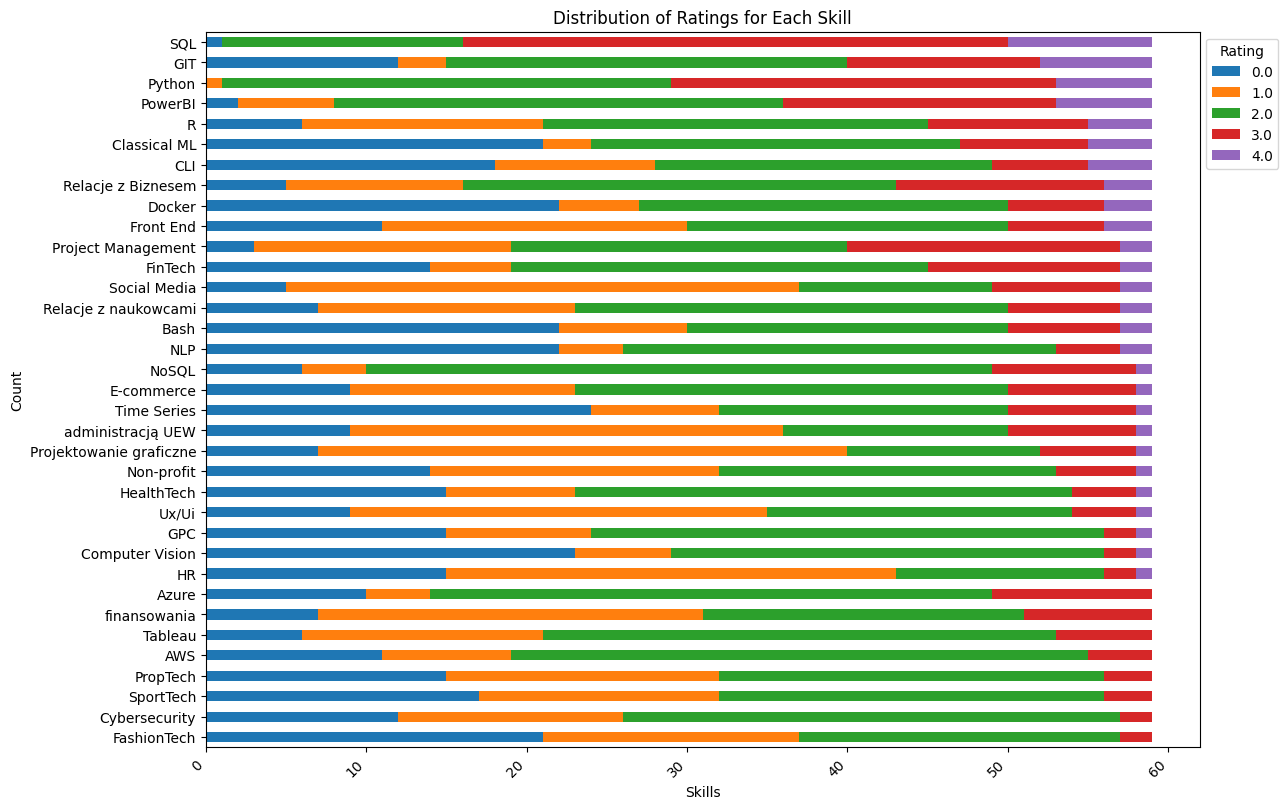
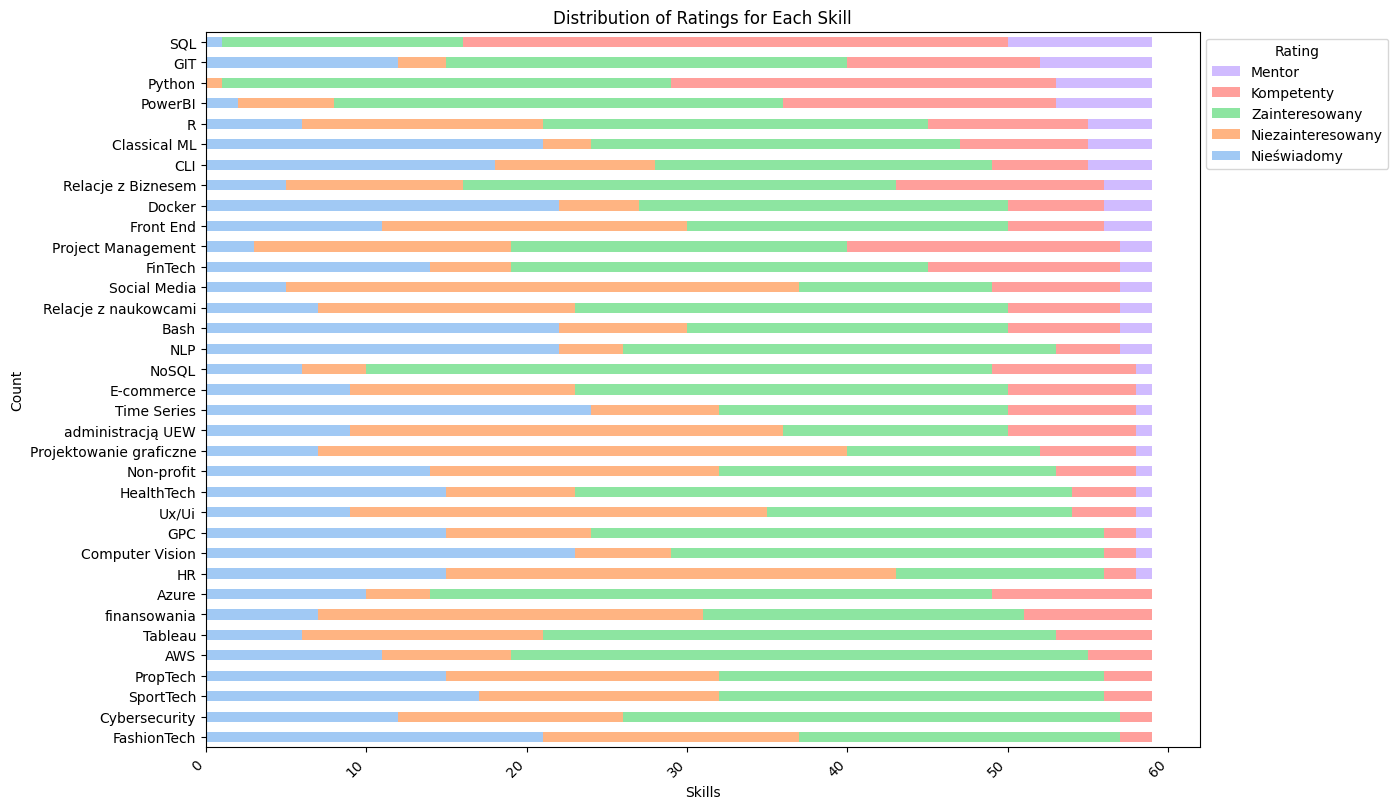
Changed color scheme and legend in graph

diff --git a/notebooks/02_data_processing.py b/notebooks/02_data_processing.py
@@ -2,31 +2,37 @@ import pandas as pd
 import os
 import numpy as np
 
+#Finding file
 os.chdir(r'data')
-file_name = r'01_Raw\01_SelectedFeatures.csv'
-
+file_name = r'02_Interim\01_SelectedFeatures.csv'
 df = pd.read_csv(file_name)
-columns_to_drop = ['Masz jakiś pomysł na projekt data? Napisz nam o tym. Jeżeli to nie ten moment, pozostaw puste pole.', 'W jaki sposób chcesz uczestniczyć w Community?',
-                   'Jeżeli jest obszar, na którym się znasz i chcesz go wykorzystać, dopisz go:', 'Jeżeli pominięto branżę, na której się znasz dopisz ją:']
-quantative_df = df.drop(columns_to_drop, axis=1)
+df.info()
 
-columns_to_keep = ['ID', 'Masz jakiś pomysł na projekt data? Napisz nam o tym. Jeżeli to nie ten moment, pozostaw puste pole.', 'W jaki sposób chcesz uczestniczyć w Community?',
-                   'Jeżeli jest obszar, na którym się znasz i chcesz go wykorzystać, dopisz go:', 'Jeżeli pominięto branżę, na której się znasz dopisz ją:']
+#Choosing columns to drop and keep for easier splitting into two dataframes
+columns_to_drop = ['Masz jakiś pomysł na projekt data? Napisz nam o tym.', 'W jaki sposób chcesz uczestniczyć w Community?',
+                   'Dopisz inny obszar, który chcesz wykorzystać', 'Jeżeli pominięto branżę, na której się znasz dopisz ją']
+columns_to_keep = ['ID', 'Masz jakiś pomysł na projekt data? Napisz nam o tym.', 'W jaki sposób chcesz uczestniczyć w Community?',
+                   'Dopisz inny obszar, który chcesz wykorzystać', 'Jeżeli pominięto branżę, na której się znasz dopisz ją']
+
+#Creating two seperate df depending on data type
+quantative_df = df.drop(columns_to_drop, axis=1)
 qualitative_df = df[columns_to_keep]
 
-
+#Replacing entries with binary classification depending on respondent answer
 condition = (df['W jaki sposób chcesz uczestniczyć w Community?'] == 'Chcę uczestniczyć w projekcie data i organizować "życie" Community')
 value_if_true = 1
 value_if_false = 0
 quantative_df['Organizowanie życia community'] = np.where(condition, value_if_true, value_if_false)
 
+#Replacing missing data
 qualitative_df = qualitative_df.replace('', 'Brak odpowiedzi')
 qualitative_df = qualitative_df.fillna('Brak odpowiedzi')
 
-new_file_path1 = r'02_Interim\02_ProcessedData_Quantative.csv'
+#Creating files
+new_file_path1 = r'03_Processed\02_ProcessedData_Quantative.csv'
 quantative_df.to_csv(new_file_path1, index=False)
 print("File created succesfully")
 
-new_file_path2 = r'02_Interim\02_ProcessedData_Qualitative.csv'
+new_file_path2 = r'03_Processed\02_ProcessedData_Qualitative.csv'
 qualitative_df.to_csv(new_file_path2, index=False)
 print("File created succesfully")

diff --git a/notebooks/03_exploratory_analysis.py b/notebooks/03_exploratory_analysis.py
@@ -23,7 +23,9 @@ ratings_distribution = ratings_distribution.sort_values(by=sort_order, ascending
 ratings_distribution = ratings_distribution.iloc[::-1]
 
 #Plotting the stacked bar chart
-ax = ratings_distribution.plot(kind='barh', stacked=True, title='Distribution of Ratings for Each Skill', figsize=(12, 8))
+blue_palette = sns.color_palette("pastel", 5)
+ax = ratings_distribution.plot(kind='barh', stacked=True, title='Distribution of Ratings for Each Skill', 
+                               color=blue_palette, figsize=(12, 8))
 plt.xticks(rotation=45, ha='right')
 plt.tight_layout()
 plt.xlabel('Skills')
@@ -34,7 +36,6 @@ plt.legend(title='Rating', loc='upper left', bbox_to_anchor=(1, 1))
 os.chdir('..')
 plt.savefig(r'figures\03_survey_answer_distrtibution.png', bbox_inches='tight')
 plt.show()
-
 
 #Creating a correlation matrix heatmap
 correlation_df = df[columns]
